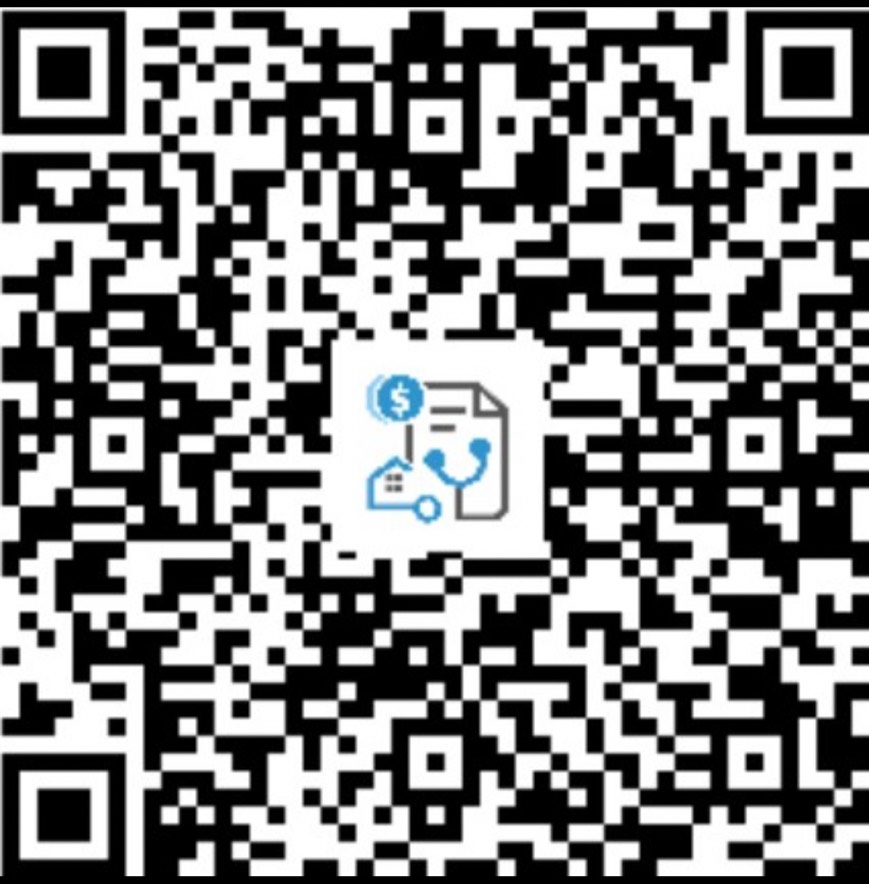
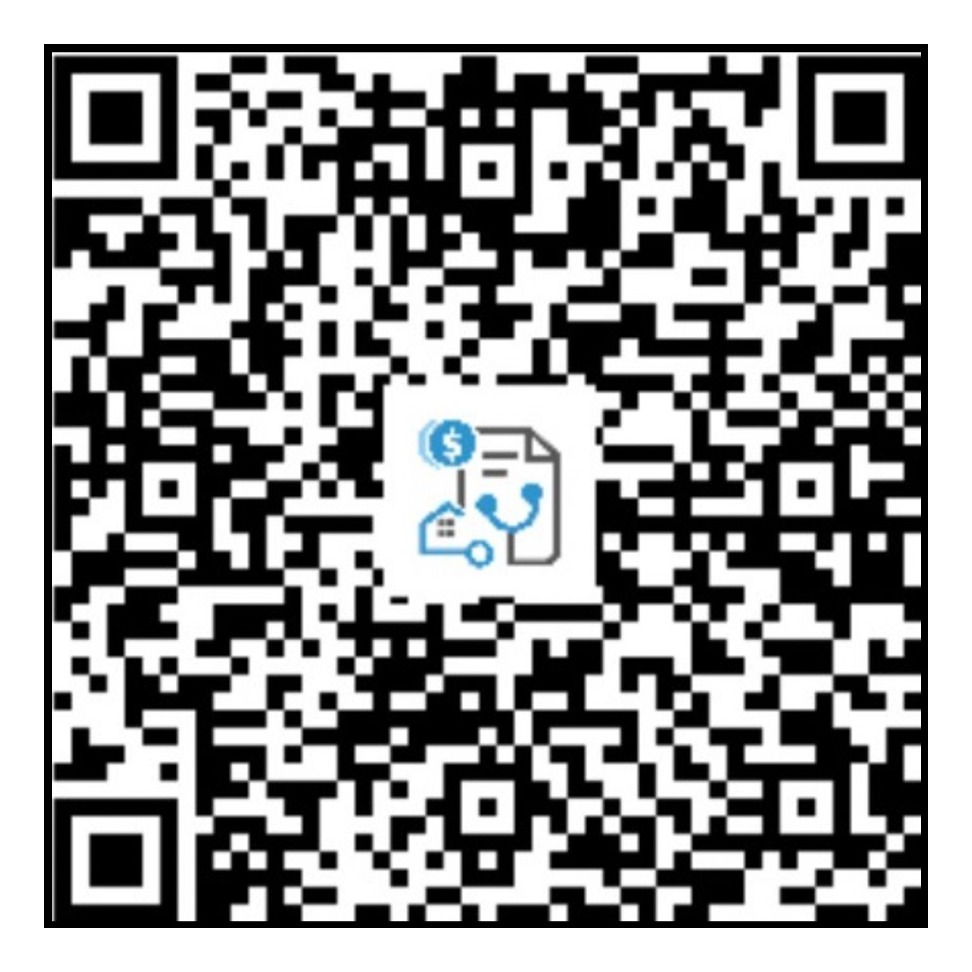
Reorder slogan, crop QR labels, tighten section spacing
- Slogan: 文山・新店 → 新店・文山 (新店 first — founding location, 2010)
  across index.html, about.html (title/meta/hero lead) and site-spec.md.
- QR images: crop all 5 assets/qr/* to a tight square + ~5% quiet-zone
  padding, removing the baked-in clinic-name text band beneath the QR
  (redundant with the HTML labels). Filenames unchanged.
- Spacing: tighten inter-section rhythm one step (--s-7 4.5→3.5rem,
  --s-8 6.5→5rem) for a calmer hero→section gap site-wide.

diff --git a/about.html b/about.html
@@ -3,8 +3,8 @@
 <head>
 <meta charset="UTF-8" />
 <meta name="viewport" content="width=device-width, initial-scale=1.0" />
-<title>關於大豐｜文山・新店在地耳鼻喉科｜大豐耳鼻喉科聯合診所</title>
-<meta name="description" content="大豐耳鼻喉科自 2010 年於新店建國路起步，陸續成立木柵、興隆院區，2026 年 10 月中山旗艦手術中心開幕。深耕文山・新店，提供成人與兒童耳鼻喉與睡眠呼吸中止症照護。" />
+<title>關於大豐｜新店・文山在地耳鼻喉科｜大豐耳鼻喉科聯合診所</title>
+<meta name="description" content="大豐耳鼻喉科自 2010 年於新店建國路起步，陸續成立木柵、興隆院區，2026 年 10 月中山旗艦手術中心開幕。深耕新店・文山，提供成人與兒童耳鼻喉與睡眠呼吸中止症照護。" />
 <link rel="icon" type="image/png" href="assets/favicon.png" />
 
 <link rel="preconnect" href="https://fonts.googleapis.com" />
@@ -216,7 +216,7 @@
       </nav>
       <span class="eyebrow reveal in">自 2010 年・在地深耕</span>
       <h1 class="reveal in d1">關於大豐</h1>
-      <p class="page-head__lead reveal in d2">在地深耕文山・新店，從基層耳鼻喉照護，到成人與兒童的睡眠呼吸中止症診斷與治療，大豐陪伴社區家庭的每一個階段。</p>
+      <p class="page-head__lead reveal in d2">在地深耕新店・文山，從基層耳鼻喉照護，到成人與兒童的睡眠呼吸中止症診斷與治療，大豐陪伴社區家庭的每一個階段。</p>
     </div>
   </section>
 

diff --git a/index.html b/index.html
@@ -300,7 +300,7 @@
     <div class="wrap hero__grid">
       <div class="hero__copy">
         <span class="eyebrow reveal in">新店 ・ 木柵 ・ 興隆 ・ 中山</span>
-        <h1 class="reveal in d1">文山・新店在地深耕，<br /><span class="hl">三院區</span>守護全家人的<br />呼吸與睡眠</h1>
+        <h1 class="reveal in d1">新店・文山在地深耕，<br /><span class="hl">三院區</span>守護全家人的<br />呼吸與睡眠</h1>
         <p class="hero__lead reveal in d2">大豐耳鼻喉科聯合診所，由 6 位耳鼻喉科專科醫師與 1 位小兒專科醫師組成，於新店、木柵、興隆三處社區提供完整的成人與兒童耳鼻喉照護，並設有睡眠呼吸中止、眩暈與頭頸部專業評估門診。</p>
         <div class="hero__cta reveal in d3">
           <a href="locations.html" class="btn btn--ghost">

diff --git a/assets/site.css b/assets/site.css
@@ -27,7 +27,9 @@
 
   /* spacing scale */
   --s-1: 0.5rem;  --s-2: 0.75rem; --s-3: 1rem;  --s-4: 1.5rem;
-  --s-5: 2rem;    --s-6: 3rem;    --s-7: 4.5rem; --s-8: 6.5rem;
+  /* --s-7/--s-8 drive inter-section vertical rhythm; tightened one step down
+     (4.5→3.5, 6.5→5) for a calmer, less cavernous gap between sections */
+  --s-5: 2rem;    --s-6: 3rem;    --s-7: 3.5rem; --s-8: 5rem;
 
   --maxw: 1140px;
   --radius:   14px;

diff --git a/progress.md b/progress.md
@@ -2,7 +2,9 @@
 
 Orientation note for the next session. See `site-spec.md` for the full content brief (source of truth) and `CLAUDE.md` for the rules (design rules + compliance live there).
 
-_Last updated: 2026-05-30_
+_Last updated: 2026-05-31_
+
+**2026-05-31 fixes:** (1) hero slogan reordered to **新店・文山在地深耕** (新店 first — founding location, 2010) across `index.html`, `about.html` title/meta/lead, and canonical `site-spec.md` §二-B. (2) All 5 `assets/qr/*` images cropped to a tight square + ~5% quiet-zone padding, removing the baked-in clinic-name text band (HTML labels unchanged). (3) Inter-section spacing tightened one step: `--s-7` 4.5→3.5rem, `--s-8` 6.5→5rem in `assets/site.css` (calmer hero→section gap site-wide).
 
 ---
 

diff --git a/site-spec.md b/site-spec.md
@@ -42,7 +42,7 @@
 ### 主標語（擇一，或 A 為主標、B 為副標）
 
 - **A（理念型）**：守護您一家大小的耳鼻喉健康，就在生活的街角。
-- **B（在地型）**：文山・新店在地深耕，三院區守護全家人的呼吸與睡眠。
+- **B（在地型）**：新店・文山在地深耕，三院區守護全家人的呼吸與睡眠。
 - **C（品牌雙關，善用「大豐」二字）**：大醫精誠，豐盛守護 —— 大豐耳鼻喉科。
 
 ### 首頁一句話定位（Hero 副標）
